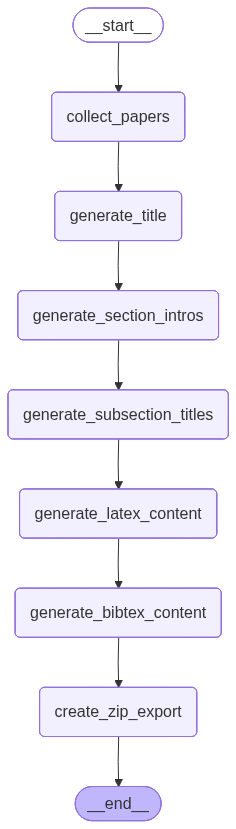
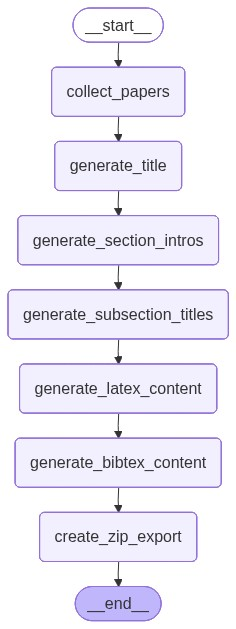
reposition graphs

Changed region(s): [[0.0297, 0.0, 0.9788, 0.9968], [0.8008, 0.8156, 0.8602, 0.876], [0.2076, 0.2417, 0.2669, 0.3021]]

diff --git a/graph_diagrams/generate_diagrams.py b/graph_diagrams/generate_diagrams.py
@@ -2,6 +2,8 @@
 """Generate graph diagrams for all LangGraph workflows."""
 
 import sys
+import base64
+import httpx
 from pathlib import Path
 
 # Add project root to path
@@ -19,22 +21,46 @@ def generate_diagrams(output_dir: Path = None):
     if output_dir is None:
         output_dir = Path(__file__).parent
 
+    # (graph, xray, layout) - LR=horizontal, TD=vertical
     graphs = {
-        "main_graph": (main_graph, False),
-        "planning_graph": (planning_graph, True),
-        "refinement_graph": (refinement_graph, True),
-        "overleaf_graph": (overleaf_graph, True),
+        "main_graph": (main_graph, False, "LR"),
+        "planning_graph": (planning_graph, True, "TD"),
+        "refinement_graph": (refinement_graph, True, "TD"),
+        "overleaf_graph": (overleaf_graph, True, "TD"),
     }
 
-    for name, (graph, xray) in graphs.items():
-        print(f"Generating {name} (xray={xray})...")
+    for name, (graph, xray, layout) in graphs.items():
+        print(f"Generating {name} (xray={xray}, layout={layout})...")
 
         mermaid = graph.get_graph(xray=xray).draw_mermaid()
+
+        # Apply layout
+        if layout == "LR":
+            mermaid = mermaid.replace("graph TD;", "graph LR;")
+
+        # Replace config with compact settings
+        old_config = """---
+config:
+  flowchart:
+    curve: linear
+---"""
+        new_config = f"""---
+config:
+  flowchart:
+    curve: linear
+    nodeSpacing: 15
+    rankSpacing: 25
+---"""
+        mermaid = mermaid.replace(old_config, new_config)
+
         mmd_path = output_dir / f"{name}.mmd"
         mmd_path.write_text(mermaid)
         print(f"  Saved: {mmd_path}")
 
-        png_bytes = graph.get_graph(xray=xray).draw_mermaid_png()
+        # Generate PNG with LR layout using mermaid.ink API
+        mermaid_encoded = base64.b64encode(mermaid.encode("utf8")).decode("ascii")
+        png_bytes = httpx.get(f"https://mermaid.ink/img/{mermaid_encoded}").content
+
         png_path = output_dir / f"{name}.png"
         png_path.write_bytes(png_bytes)
         print(f"  Saved: {png_path}")

diff --git a/README.md b/README.md
@@ -25,14 +25,9 @@ The Literature Review Agent automates the entire academic literature review proc
 
 ## Overall Architecture
 
-<table>
-<tr>
-<td width="15%" valign="top">
-
-<img src="graph_diagrams/main_graph.png" alt="Main Architecture Graph" width="100%"/>
-
-</td>
-<td width="85%" valign="top">
+<p align="center">
+  <img src="graph_diagrams/main_graph.png" alt="Main Architecture Graph" width="550"/>
+</p>
 
 The system is composed of three sequential sub-agents orchestrated by a parent graph:
 
@@ -42,22 +37,13 @@ The system is composed of three sequential sub-agents orchestrated by a parent g
 
 Each agent operates autonomously within its domain while passing structured state to the next stage. The architecture ensures that every claim in the final output is traceable back to its source paper.
 
-</td>
-</tr>
-</table>
-
 ---
 
 ## Planning Agent
 
-<table>
-<tr>
-<td width="30%" valign="top">
-
-<img src="graph_diagrams/planning_graph.png" alt="Planning Agent Graph" width="100%"/>
-
-</td>
-<td width="70%" valign="top">
+<p align="center">
+  <img src="graph_diagrams/planning_graph.png" alt="Planning Agent Graph" width="320"/>
+</p>
 
 ### Purpose
 The Planning Agent transforms a research topic into a comprehensive, actionable review plan with curated paper assignments.
@@ -81,22 +67,13 @@ The Planning Agent transforms a research topic into a comprehensive, actionable 
 - **Tavily** captures recent developments not yet in academic literature
 - **Human-in-the-loop** ensures the review direction matches user intent
 
-</td>
-</tr>
-</table>
-
 ---
 
 ## Refinement Agent
 
-<table>
-<tr>
-<td width="30%" valign="top">
-
-<img src="graph_diagrams/refinement_graph.png" alt="Refinement Agent Graph" width="100%"/>
-
-</td>
-<td width="70%" valign="top">
+<p align="center">
+  <img src="graph_diagrams/refinement_graph.png" alt="Refinement Agent Graph" width="280"/>
+</p>
 
 ### Purpose
 The Refinement Agent generates high-quality, grounded content for each subsection through an iterative write-review-refine loop.
@@ -123,22 +100,13 @@ Each subsection goes through two review stages:
 
 If either review fails, the content is refined and re-reviewed until it passes or hits the retry limit.
 
-</td>
-</tr>
-</table>
-
 ---
 
 ## Overleaf Export Agent
 
-<table>
-<tr>
-<td width="30%" valign="top">
-
-<img src="graph_diagrams/overleaf_graph.png" alt="Overleaf Agent Graph" width="100%"/>
-
-</td>
-<td width="70%" valign="top">
+<p align="center">
+  <img src="graph_diagrams/overleaf_graph.png" alt="Overleaf Agent Graph" width="200"/>
+</p>
 
 ### Purpose
 The Overleaf Agent transforms the completed literature survey into a publication-ready LaTeX project.
@@ -160,10 +128,6 @@ The exported ZIP includes:
 
 ### Citation Conversion
 Citations in the format `[Author_YEAR(ArxivID)]` are automatically converted to proper `\cite{key}` commands with corresponding BibTeX entries.
-
-</td>
-</tr>
-</table>
 
 ---
 
